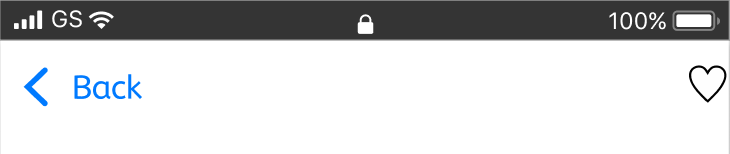
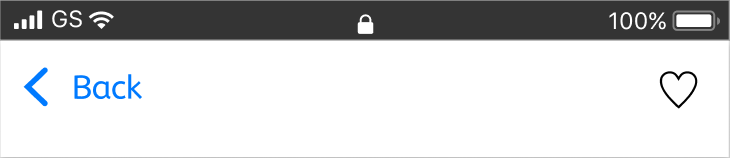
Fourth Submission

diff --git a/css/style.css b/css/style.css
@@ -55,16 +55,16 @@ h4{
   left: 35%;
   font-size: 3em;
   color: black;
-  font: "Arial";
+  font: Arial;
 }
 
 .favorites{
   position: absolute;
-  top: 85px;
-  left: 75%;
-  font-size: 2em;
+  top: 80px;
+  left: 71%;
+  font-size: 1.9em;
   color: #619CD8;
-  line-height: 110%;
+  line-height: 105%;
 }
 
 hr{
@@ -80,7 +80,7 @@ hr.side{
 .bus-stop {
   text-align:center;
   margin: 30px;
-  font-size: 3em;
+  font-size: 3.2em;
   line-height: 130%;
   font-family:trebuchet, helvetica;
 }
@@ -88,7 +88,7 @@ hr.side{
 table.table1{
   color:#6685ff;
   font-family: tahoma;
-  font-size: 2.2em;
+  font-size: 2.7em;
   table-layout: auto;
 }
 
@@ -124,7 +124,9 @@ table tr td:nth-child(2){
     }
 
 table tr td:nth-child(3){
-      width: 35%;
+      width: 40%;
+      text-align: right;
+      padding-right: 20px;
     }
 
 .destination{
@@ -133,6 +135,6 @@ table tr td:nth-child(3){
   font-weight: lighter;
   padding-top: 30px;
   padding-bottom: 5px;
-  padding-left: 40px;
+  padding-left: 70px;
   color: #ff8833;
 }

diff --git a/index.html b/index.html
@@ -14,16 +14,15 @@
     <div class ="clock">
       <img src="images/clock3.png"></div>
     <div class="bus-stop">
-      <p>Washington & State <p>
+      <p>Washington & <br>State <p>
     </div>
-<hr><hr>
 <table class="intro table1">
   <tr>
     <td><p>Line</p></td>
     <td><p>Destination</p></td>
     <td><p>Frequency</p></td>
   </tr>
-</table><hr><hr><br>
+</table><br>
 <div class="destination east">
   <p>Eastbound</p>
 </div>
